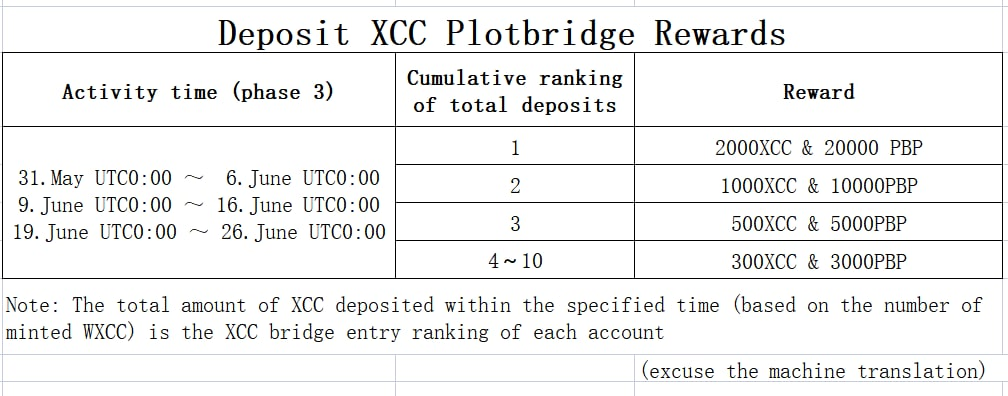
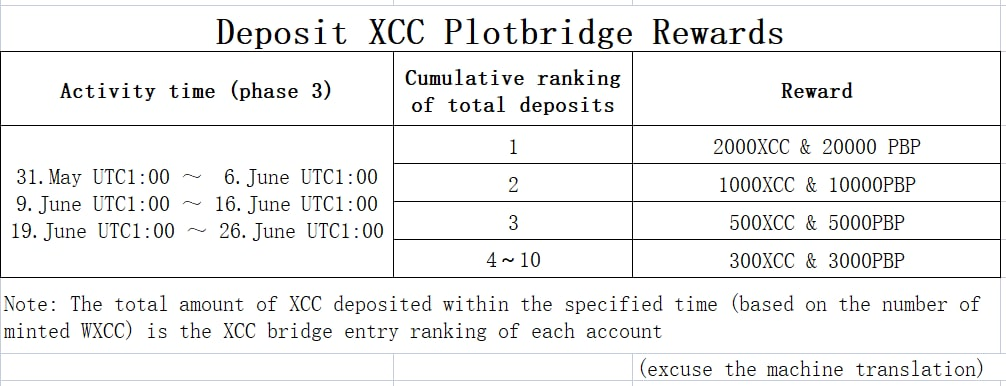
add cross avtivity first result

diff --git a/content/activities/crosspb.md b/content/activities/crosspb.md
@@ -8,15 +8,27 @@ Deposit XCC into PlotBridge Rewards Event
 
 **Schedule:**
 
-A total of 16,800 XCCs and 168,000 PBPs are arranged as rewards for this event. The event is divided into 3 phases. The first phase of the event is scheduled to start at 1:00 GMT on May 31st and end at 1:00 GMT on June 6th. The second phase The event time is scheduled to start at 1:00 GMT on June 9th and end at 1:00 GMT on June 16th. The third phase of the event is scheduled to start at 1:00 GMT on June 19th and end at 1:00 GMT on June 26th.
+A total of 16,800 XCCs and 168,000 PBPs are arranged as rewards for this event. The event is divided into 3 phases.
+
+-   The first phase of the event is scheduled to start at 1:00 GMT on May 31st and end at 1:00 GMT on June 6th.
+
+-   The second phase The event time is scheduled to start at 1:00 GMT on June 9th and end at 1:00 GMT on June 16th.
+
+-   The third phase of the event is scheduled to start at 1:00 GMT on June 19th and end at 1:00 GMT on June 26th.
 
 **Ranking Statistics:**
 
 According to the total amount of XCC deposited into plotBridge from the beginning to the end of each period (based on the number of minted WXCC), the total amount of XCC entering the bridge for each account is ranked (you can deposit one or more times).
 
-Reward Level:
+**Reward Level**:
 
-The rewards are divided into 4 levels: 1st, 2nd, 3rd, 4th to 10th, 2000 XCC and 20000 PBP for the first place, 1000 XCC and 10000 PBP for the second place, 1000 XCC and 10000 PBP for the 3rd place 500 XCC and 5000 PBP will be awarded for the first place, and 300 XCC and 3000 PBP will be awarded for the 4th to 10th place.
+The rewards are divided into 4 levels: 1st, 2nd, 3rd, 4th to 10th:
+
+-   2000 XCC and 20000 PBP for the first place,
+-   1000 XCC and 10000 PBP for the second place,
+-   1000 XCC and 10000 PBP for the 3rd place
+-   500 XCC and 5000 PBP will be awarded for the first place,
+-   300 XCC and 3000 PBP will be awarded for the 4th to 10th place.
 
 **Prize distribution:**
 
@@ -25,6 +37,10 @@ The prize money will be directly transferred to the winning wallet account by th
 **Source of award funding:**
 
 ![win rewards](/images/activeimg/active1.jpg)
+
+**Award List of the first phase activity**
+
+![gain reward](/images/activeimg/cross1.jpg)
 
 The website for PlotBridge is:[ http://www.plotbridge.io](https://www.plotbridge.io/)
 

diff --git a/content/activities/crosspb.zh-cn.md b/content/activities/crosspb.zh-cn.md
@@ -8,7 +8,11 @@
 
 **时间安排：**
 
-这次活动共安排 16,800 个 XCC 和 168,000 个 PBP 作为奖励金，活动分 3 期进行，第 1 期活动时间安排在 GMT5 月 31 日 1:00 开始至 GMT6 月 6 日 1:00 结束，第 2 期活动时间安排在 GMT6 月 9 日 1:00 开始至 GMT6 月 16 日 1:00 结束，第 3 期活动时间安排在 GMT6 月 19 日 1:00 开始至 GMT6 月 26 日 1:00 结束。
+这次活动共安排 16,800 个 XCC 和 168,000 个 PBP 作为奖励金，活动分 3 期进行:
+
+-   第 1 期活动时间安排在 GMT5 月 31 日 1:00 开始至 GMT6 月 6 日 1:00 结束
+-   第 2 期活动时间安排在 GMT6 月 9 日 1:00 开始至 GMT6 月 16 日 1:00 结束
+-   第 3 期活动时间安排在 GMT6 月 19 日 1:00 开始至 GMT6 月 26 日 1:00 结束。
 
 **排名统计：**
 
@@ -16,7 +20,12 @@
 
 **奖励等级：**
 
-奖励分为第 1 名、第 2 名、第 3 名、第 4 ～ 10 名 4 个等级，第 1 名奖励 2000 个 XCC 和 20000 个 PBP，第 2 名奖励 1000 个 XCC 和 10000 个 PBP，第 3 名奖励 500 个 XCC 和 5000 个 PBP，第 4 到第 10 名奖励 300 个 XCC 和 3000 个 PBP。
+奖励分为第 1 名、第 2 名、第 3 名、第 4 ～ 10 名 4 个等级:
+
+-   第 1 名奖励 2000 个 XCC 和 20000 个 PBP
+-   第 2 名奖励 1000 个 XCC 和 10000 个 PBP
+-   第 3 名奖励 500 个 XCC 和 5000 个 PBP
+-   第 4 到第 10 名奖励 300 个 XCC 和 3000 个 PBP。
 
 **奖金分配：**
 
@@ -25,6 +34,10 @@
 **奖励资金来源：**
 
 ![win rewards](/images/activeimg/active1-zh.jpg)
+
+**第一期活动中奖名单**
+
+![gain reward](/images/activeimg/cross1-zh.jpg)
 
 PlotBridge 的网址是：http://www.plotbridge.io
 （请原谅机器自动翻译）
